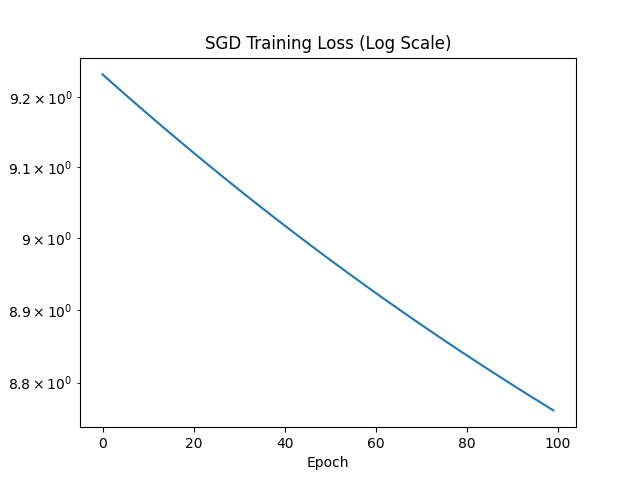
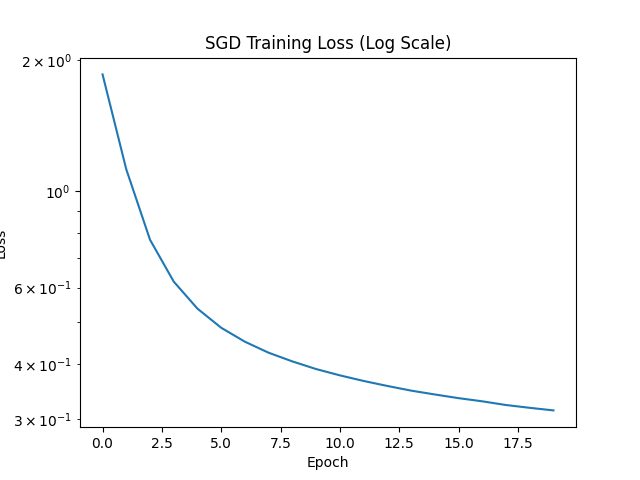
new evals

diff --git a/eval.py b/eval.py
@@ -5,50 +5,53 @@ import torch
 import torch.nn as nn
 import torchvision
 from torchvision import transforms
-from torch.utils.data import DataLoader, TensorDataset
+from torch.utils.data import DataLoader
 import matplotlib.pyplot as plt
-from sklearn.model_selection import train_test_split
+from optimizer.shampoo import Shampoo  # Assuming Shampoo optimizer is available
+
 # Create results directory
 os.makedirs('results', exist_ok=True)
 
-from optimizer.shampoo import Shampoo
-
-
-# Logistic regression model
-class LogisticRegression(nn.Module):
-    def __init__(self, input_dim):
+# Define MLP model
+class MLP(nn.Module):
+    def __init__(self, input_dim, hidden_dim, num_classes):
         super().__init__()
-        self.weights = nn.Parameter(torch.randn(input_dim, 1))
-        self.bias = nn.Parameter(torch.randn(1))
+        self.fc1 = nn.Linear(input_dim, hidden_dim)
+        self.relu = nn.ReLU()
+        self.fc2 = nn.Linear(hidden_dim, num_classes)
         
     def forward(self, x):
-        return torch.matmul(x, self.weights) + self.bias
+        x = x.view(x.size(0), -1)  # Flatten input
+        x = self.fc1(x)
+        x = self.relu(x)
+        x = self.fc2(x)
+        return x
 
+# Training function
 def train_model(model, optimizer, train_loader, epochs=100, log_interval=10):
-    criterion = nn.BCEWithLogitsLoss()
+    criterion = nn.CrossEntropyLoss()
     losses = []
     
     for epoch in range(epochs):
+        model.train()
         epoch_loss = 0
+        
         for X_batch, y_batch in train_loader:
             optimizer.zero_grad()
-            outputs = model(X_batch.view(-1, 28*28)).squeeze()
+            outputs = model(X_batch)
             loss = criterion(outputs, y_batch)
-            
-            reg_loss = 0.01*(torch.norm(model.weights)**2 + torch.norm(model.bias)**2)
-            loss += reg_loss
-            
             loss.backward()
             optimizer.step()
+            
             epoch_loss += loss.item()
         
         avg_loss = epoch_loss / len(train_loader)
         losses.append(avg_loss)
+        
         if epoch % log_interval == 0:
             print(f'Epoch {epoch+1}/{epochs}, Loss: {avg_loss:.4f}')
     
     return losses
-
 
 # Analysis functions
 def save_analysis(losses, name):
@@ -69,65 +72,46 @@ def save_analysis(losses, name):
     plt.ylabel('Loss')
     plt.savefig(f'results/{name}_log_loss.png')
     plt.close()
-    
-    # Calculate slope
-    valid_losses = [l for l in losses if not np.isinf(l)]
-    x = np.arange(len(valid_losses))
-    slope = np.polyfit(x, np.log(valid_losses), 1)[0]
-    
-    with open(f'results/{name}_slope.txt', 'w') as f:
-        f.write(f"Convergence slope: {slope:.6f}")
 
 # Main execution
 if __name__ == '__main__':
     # Load and prepare dataset
     transform = transforms.Compose([
         transforms.ToTensor(),
-        transforms.Resize((28, 28))
+        transforms.Normalize((0.1307,), (0.3081,))
     ])
     
-    full_train = torchvision.datasets.MNIST(root='./data', train=True, download=True, transform=transform)
+    train_dataset = torchvision.datasets.MNIST(root='./data', train=True, download=True, transform=transform)
+    train_loader = DataLoader(train_dataset, batch_size=1024, shuffle=True)
     
-    # Filter 0s and 1s
-    idx = (full_train.targets == 0) | (full_train.targets == 1)
-    X = full_train.data[idx].float() / 255.0
-    y = full_train.targets[idx].float()
+    # Define model parameters
+    input_dim = 28 * 28
+    hidden_dim = 128
+    num_classes = 10
+    epochs = 20
 
-    
-    # Train-test split
-    X_train, X_test, y_train, y_test = train_test_split(
-        X, y, test_size=0.2, random_state=42
-    )
-    
-    # Create DataLoaders
-    train_dataset = TensorDataset(X_train, y_train)
-    train_loader = DataLoader(train_dataset, batch_size=100000, shuffle=True)
-    
-    # Train with different optimizers
+    # Optimizers to compare
     optimizers = {
-        'Shampoo': Shampoo,
-        'SGD': torch.optim.SGD,
-        'SGD_Momentum': lambda params: torch.optim.SGD(params, momentum=0.9, nesterov=True, lr=0.001)
+        'SGD': lambda params: torch.optim.SGD(params, lr=0.01),
+        'Adam': lambda params: torch.optim.Adam(params, lr=0.001),
+        'Shampoo': lambda params: Shampoo(params, lr=0.01, momentum=0.9)
     }
     
     results = {}
     
-    for opt_name, opt_class in optimizers.items():
+    for opt_name, opt_fn in optimizers.items():
         print(f"\nTraining with {opt_name}...")
         
-        model = LogisticRegression(28*28)
-        if opt_name == 'Shampoo':
-            optimizer = opt_class(model.parameters(), lr=0.01, momentum=0.9)
-        elif opt_name == 'SGD':
-            optimizer = opt_class(model.parameters(), lr=0.001)
-        else:
-            optimizer = opt_class(model.parameters())
+        # Create model and optimizer
+        model = MLP(input_dim, hidden_dim, num_classes)
+        optimizer = opt_fn(model.parameters())
         
-        losses = train_model(model, optimizer, train_loader= train_loader, epochs=100)
-        
+        # Train model
         start_time = time.time()
+        losses = train_model(model, optimizer, train_loader, epochs=epochs)
         training_time = time.time() - start_time
         
+        # Save results
         results[opt_name] = {
             'losses': losses,
             'time': training_time
@@ -139,9 +123,9 @@ if __name__ == '__main__':
     # Generate comparison plot
     plt.figure(figsize=(10, 6))
     for name, data in results.items():
-        plt.semilogy(data['losses'], label=name)
+        plt.plot(data['losses'], label=name)
     
-    plt.title('Optimizer Comparison (Log Scale)')
+    plt.title('Optimizer Comparison')
     plt.xlabel('Epoch')
     plt.ylabel('Loss')
     plt.legend()

diff --git a/optimizer/shampoo.py b/optimizer/shampoo.py
@@ -1,91 +1,88 @@
 import torch
 from torch.optim.optimizer import Optimizer
 
-
-def _matrix_power(matrix, power):
-    # use CPU for svd for speed up
+def _matrix_power(matrix: torch.Tensor, power: float) -> torch.Tensor:
+    
+    device = matrix.device
     matrix = matrix.cpu()
     u, s, v = torch.svd(matrix)
-    return (u @ s.pow_(power).diag() @ v.t())
+    return (u @ s.pow_(power).diag() @ v.t()).to(device)
 
 
 class Shampoo(Optimizer):
-
-    def __init__(self, params, lr=1e-1, momentum=0, weight_decay=0, epsilon=1e-4, update_freq=1):
-        """
-
-        :param params (iterable): iterable of parameters to optimize or dicts defining
-            parameter groups
-        :param lr (float, optional): learning rate (default: 1e-1)
-        :param momentum: (float, optional): momentum factor (default: 0)
-        :param weight_decay: (float, optional): weigt decay factor (default: 0)
-        :param epsilon: (float, optional): momentum factor (default: 1e-4)
-        :param update_freq: (int, optional): update frequency to compute inverse (default: 1)
-        """
+    def __init__(self, params, lr=1e-3, momentum=0, weight_decay=0, epsilon=1e-4, update_freq=1):
         defaults = dict(lr=lr, momentum=momentum, weight_decay=weight_decay, epsilon=epsilon, update_freq=update_freq)
         super(Shampoo, self).__init__(params, defaults)
 
-    def step(self, closure=None):
+    
+    def step(self, closure = None):
         loss = None
         if closure is not None:
             loss = closure()
 
+        
         for group in self.param_groups:
             for p in group["params"]:
                 if p.grad is None:
                     continue
                 grad = p.grad.data
-                order = grad.ndimension()
-                original_size = grad.size()
+                grad_dim = grad.ndimension()
+                orig_shape = grad.size()
                 state = self.state[p]
                 momentum = group["momentum"]
+                lr = group["lr"]
                 weight_decay = group["weight_decay"]
 
                 if len(state) == 0:
-                    state["step"] = 0
+                    state['step'] = 0
                     if momentum > 0:
-                        state["momentum_buffer"] = grad.clone()
+                        state['momentum_buffer'] = grad.clone()
                     for dim_id, dim in enumerate(grad.size()):
-                        # precondition matrices
                         state[f"precond_{dim_id}"] = group["epsilon"] * torch.eye(dim, out=grad.new(dim, dim))
                         state[f"inv_precond_{dim_id}"] = grad.new(dim, dim).zero_()
-
+                    
                 if momentum > 0:
-                    # grad = (1 - moment) * grad(t) + moment * grad(t-1)
-                    # and grad(-1) = grad(0)
-                    grad.mul_(1 - momentum).add_(momentum, state["momentum_buffer"])
-
+                    grad.mul_(1 - momentum).add_(state["momentum_buffer"], alpha=momentum)
+                
                 if weight_decay > 0:
-                    grad.add_(group["weight_decay"], p.data)
-
-                # See Algorithm 2 for detail
+                    grad.add_(p.data, alpha=weight_decay)
+                
                 for dim_id, dim in enumerate(grad.size()):
                     precond = state[f"precond_{dim_id}"]
                     inv_precond = state[f"inv_precond_{dim_id}"]
 
-                    # mat_{dim_id}(grad)
                     grad = grad.transpose_(0, dim_id).contiguous()
-                    transposed_size = grad.size()
+                    transposed_shape = grad.size()
                     grad = grad.view(dim, -1)
+                    gradt = grad.t()
+                    precond.add_(grad @ gradt)
 
-                    grad_t = grad.t()
-                    precond.add_(grad @ grad_t)
-                    if state["step"] % group["update_freq"] == 0:
-                        inv_precond.copy_(_matrix_power(precond, -1 / order))
+                    if state['step'] % group["update_freq"] == 0:
+                        inv_precond.copy_(_matrix_power(precond, -1 / grad_dim))
 
-                    if dim_id == order - 1:
-                        # finally
-                        grad = grad_t @ inv_precond
-                        # grad: (-1, last_dim)
-                        grad = grad.view(original_size)
+                    if dim_id == grad_dim - 1:
+                        grad = gradt @ inv_precond
+                        grad = grad.view(orig_shape)
+                    
                     else:
-                        # if not final
                         grad = inv_precond @ grad
-                        # grad (dim, -1)
-                        grad = grad.view(transposed_size)
-
-                state["step"] += 1
-                state["momentum_buffer"] = grad
-                p.data.add_(-group["lr"], grad)
-
+                        grad = grad.view(transposed_shape)
+                    
+                state['step'] += 1
+                state['momentum_buffer'] = grad
+                p.data.add_(grad, alpha=-lr)
+                
         return loss
+
+                    
+
+                    
+
+                    
+
+                        
+
+
+        
+
+
